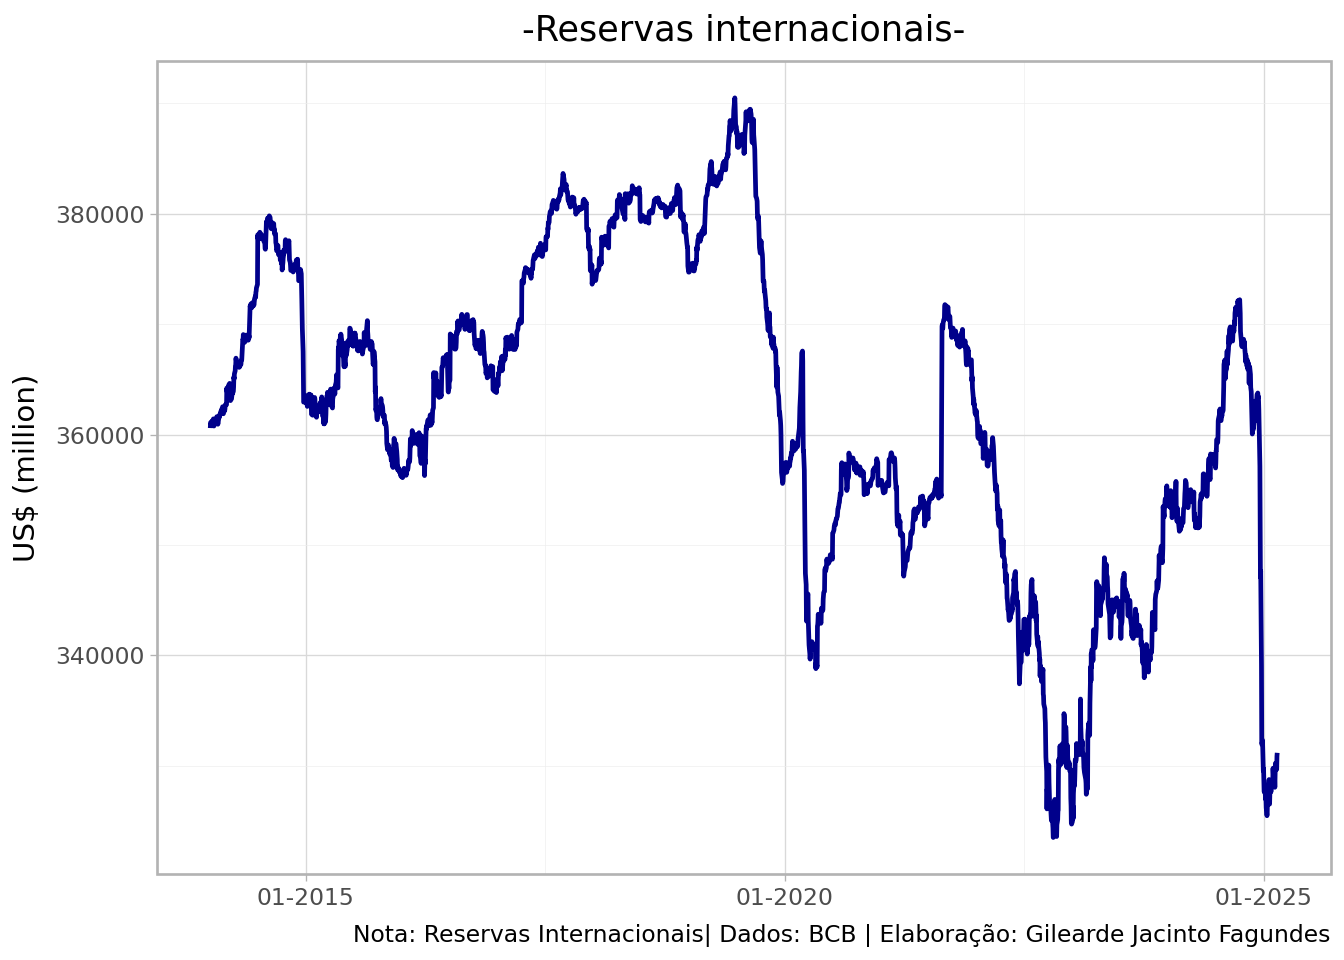
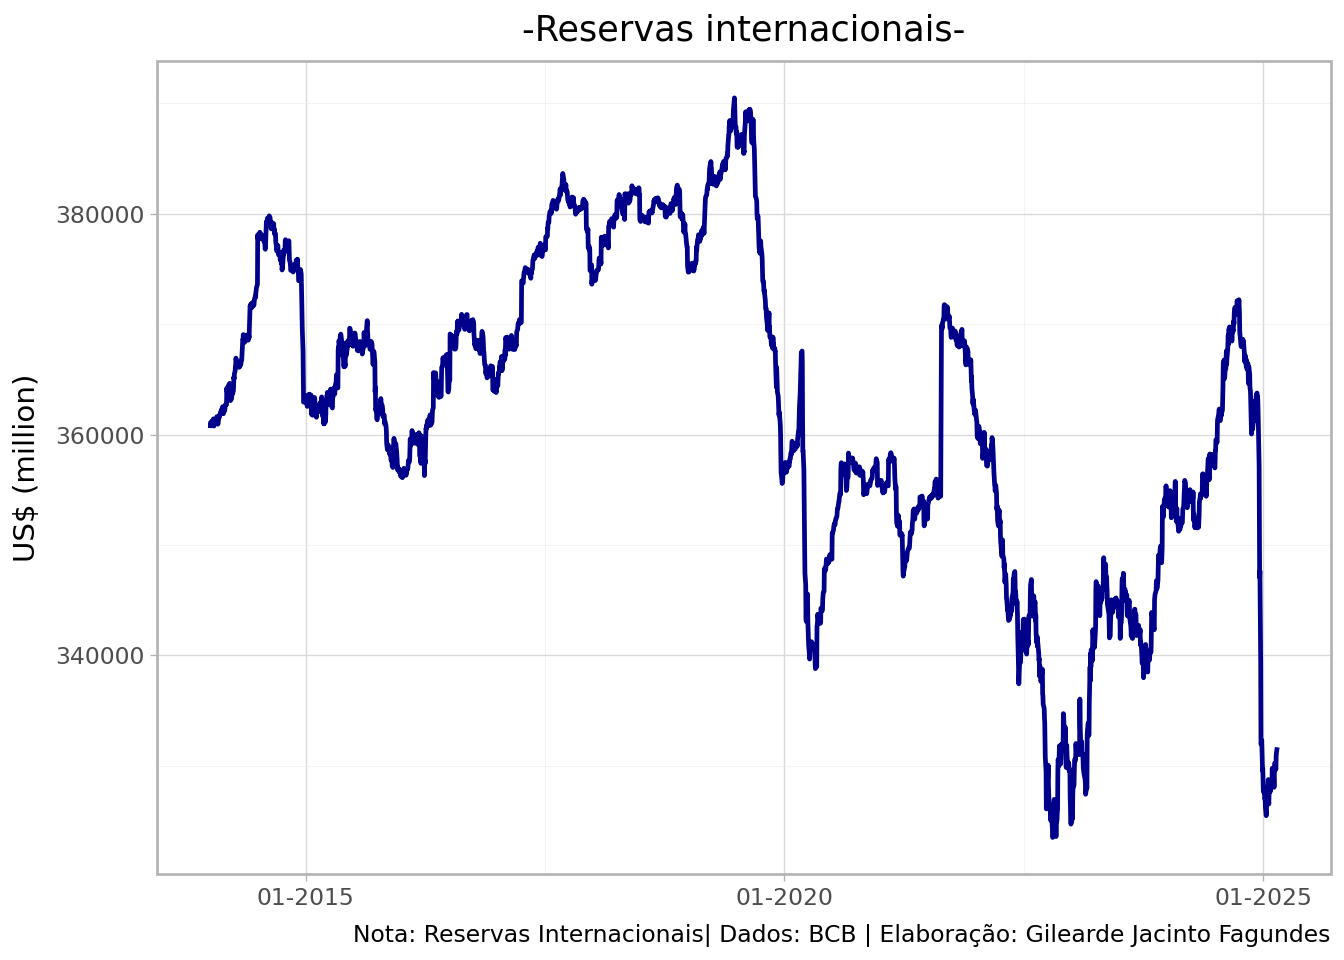
Atualização de relatorio e dashboard

diff --git a/relatorio/relatorio.html b/relatorio/relatorio.html
@@ -107,14 +107,14 @@ pre > code.sourceCode > span > a:first-child::before { text-decoration: underlin
 
 
 <p>Dados coletados da API do Banco Central do Brasil.</p>
-<div id="1256fc27" class="cell" data-execution_count="1">
+<div id="531bf320" class="cell" data-execution_count="1">
 <div class="sourceCode cell-code" id="cb1"><pre class="sourceCode python code-with-copy"><code class="sourceCode python"><span id="cb1-1"><a href="#cb1-1" aria-hidden="true" tabindex="-1"></a><span class="co"># Import Librarys</span></span>
 <span id="cb1-2"><a href="#cb1-2" aria-hidden="true" tabindex="-1"></a><span class="im">from</span> bcb <span class="im">import</span> sgs</span>
 <span id="cb1-3"><a href="#cb1-3" aria-hidden="true" tabindex="-1"></a><span class="im">import</span> pandas <span class="im">as</span> pd</span>
 <span id="cb1-4"><a href="#cb1-4" aria-hidden="true" tabindex="-1"></a><span class="im">import</span> plotnine <span class="im">as</span> p9</span></code><button title="Copy to Clipboard" class="code-copy-button"><i class="bi"></i></button></pre></div>
 </div>
 <p>Utilização da library SGS/BCB:</p>
-<div id="14ba8dda" class="cell" data-execution_count="2">
+<div id="f40d7e63" class="cell" data-execution_count="2">
 <div class="sourceCode cell-code" id="cb2"><pre class="sourceCode python code-with-copy"><code class="sourceCode python"><span id="cb2-1"><a href="#cb2-1" aria-hidden="true" tabindex="-1"></a><span class="co"># Collect data</span></span>
 <span id="cb2-2"><a href="#cb2-2" aria-hidden="true" tabindex="-1"></a>dados <span class="op">=</span> sgs.get(</span>
 <span id="cb2-3"><a href="#cb2-3" aria-hidden="true" tabindex="-1"></a>    codes<span class="op">=</span>{<span class="st">"reserva"</span>: <span class="dv">13621</span>},</span>
@@ -123,7 +123,7 @@ pre > code.sourceCode > span > a:first-child::before { text-decoration: underlin
 <span id="cb2-6"><a href="#cb2-6" aria-hidden="true" tabindex="-1"></a>)</span></code><button title="Copy to Clipboard" class="code-copy-button"><i class="bi"></i></button></pre></div>
 </div>
 <p>Os dados brutos obtidos no SGS/BCB são exibidos abaixo:</p>
-<div id="7aaa6e93" class="cell" data-execution_count="3">
+<div id="5366ae22" class="cell" data-execution_count="3">
 <div class="sourceCode cell-code" id="cb3"><pre class="sourceCode python code-with-copy"><code class="sourceCode python"><span id="cb3-1"><a href="#cb3-1" aria-hidden="true" tabindex="-1"></a>dados</span></code><button title="Copy to Clipboard" class="code-copy-button"><i class="bi"></i></button></pre></div>
 <div class="cell-output cell-output-display" data-execution_count="3">
 <div>
@@ -166,37 +166,37 @@ pre > code.sourceCode > span > a:first-child::before { text-decoration: underlin
 <td>...</td>
 </tr>
 <tr class="odd">
-<td data-quarto-table-cell-role="th">2025-02-17</td>
-<td>330163</td>
-</tr>
-<tr class="even">
 <td data-quarto-table-cell-role="th">2025-02-18</td>
 <td>329837</td>
 </tr>
-<tr class="odd">
+<tr class="even">
 <td data-quarto-table-cell-role="th">2025-02-19</td>
 <td>329654</td>
 </tr>
-<tr class="even">
+<tr class="odd">
 <td data-quarto-table-cell-role="th">2025-02-20</td>
 <td>330857</td>
 </tr>
-<tr class="odd">
+<tr class="even">
 <td data-quarto-table-cell-role="th">2025-02-21</td>
 <td>331160</td>
+</tr>
+<tr class="odd">
+<td data-quarto-table-cell-role="th">2025-02-24</td>
+<td>331659</td>
 </tr>
 </tbody>
 </table>
 
-<p>2798 rows × 1 columns</p>
+<p>2799 rows × 1 columns</p>
 </div>
 </div>
 </div>
 <p>Valores e datas da maxima e minima das Reservas Internacionais Totais:</p>
-<div id="49dc747f" class="cell" data-execution_count="4">
+<div id="00a8594a" class="cell" data-execution_count="4">
 <div class="sourceCode cell-code" id="cb4"><pre class="sourceCode python code-with-copy"><code class="sourceCode python"><span id="cb4-1"><a href="#cb4-1" aria-hidden="true" tabindex="-1"></a>dados <span class="op">=</span> dados.assign(data <span class="op">=</span> dados.index)</span></code><button title="Copy to Clipboard" class="code-copy-button"><i class="bi"></i></button></pre></div>
 </div>
-<div id="c3470a71" class="cell" data-execution_count="5">
+<div id="a17c5440" class="cell" data-execution_count="5">
 <div class="sourceCode cell-code" id="cb5"><pre class="sourceCode python code-with-copy"><code class="sourceCode python"><span id="cb5-1"><a href="#cb5-1" aria-hidden="true" tabindex="-1"></a>menor_valor <span class="op">=</span> dados.reserva.<span class="bu">min</span>() </span>
 <span id="cb5-2"><a href="#cb5-2" aria-hidden="true" tabindex="-1"></a>data_menor_valor <span class="op">=</span> dados.reserva.idxmin().date()</span>
 <span id="cb5-3"><a href="#cb5-3" aria-hidden="true" tabindex="-1"></a>maior_valor<span class="op">=</span>dados.reserva.<span class="bu">max</span>()</span>
@@ -208,7 +208,7 @@ pre > code.sourceCode > span > a:first-child::before { text-decoration: underlin
 </div>
 </div>
 <p>Gráfico de linha com a série das Reservas Internacionais Totais:</p>
-<div id="cab0b6a8" class="cell" data-execution_count="6">
+<div id="69e04c35" class="cell" data-execution_count="6">
 <div class="sourceCode cell-code" id="cb7"><pre class="sourceCode python code-with-copy"><code class="sourceCode python"><span id="cb7-1"><a href="#cb7-1" aria-hidden="true" tabindex="-1"></a><span class="co"># Line Graph</span></span>
 <span id="cb7-2"><a href="#cb7-2" aria-hidden="true" tabindex="-1"></a>chart<span class="op">=</span>p9.ggplot(data <span class="op">=</span> dados) <span class="op">+\</span></span>
 <span id="cb7-3"><a href="#cb7-3" aria-hidden="true" tabindex="-1"></a>  p9.aes(x <span class="op">=</span> <span class="st">"data"</span>, y <span class="op">=</span> <span class="st">"reserva"</span>) <span class="op">+\</span></span>
@@ -222,7 +222,7 @@ pre > code.sourceCode > span > a:first-child::before { text-decoration: underlin
 <span id="cb7-11"><a href="#cb7-11" aria-hidden="true" tabindex="-1"></a>    ) <span class="op">+\</span></span>
 <span id="cb7-12"><a href="#cb7-12" aria-hidden="true" tabindex="-1"></a>  p9.theme_light()</span></code><button title="Copy to Clipboard" class="code-copy-button"><i class="bi"></i></button></pre></div>
 </div>
-<div id="d56d69b2" class="cell" data-execution_count="7">
+<div id="a4046cdd" class="cell" data-execution_count="7">
 <div class="sourceCode cell-code" id="cb8"><pre class="sourceCode python code-with-copy"><code class="sourceCode python"><span id="cb8-1"><a href="#cb8-1" aria-hidden="true" tabindex="-1"></a>chart</span></code><button title="Copy to Clipboard" class="code-copy-button"><i class="bi"></i></button></pre></div>
 <div class="cell-output cell-output-display">
 <div>
